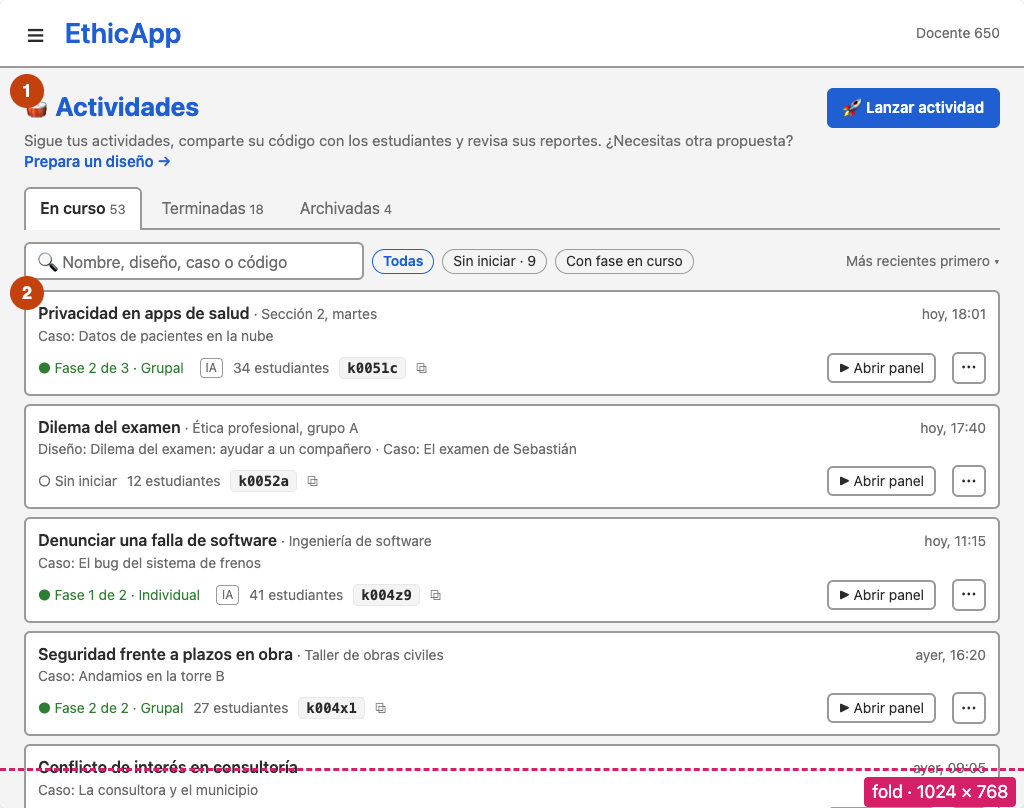
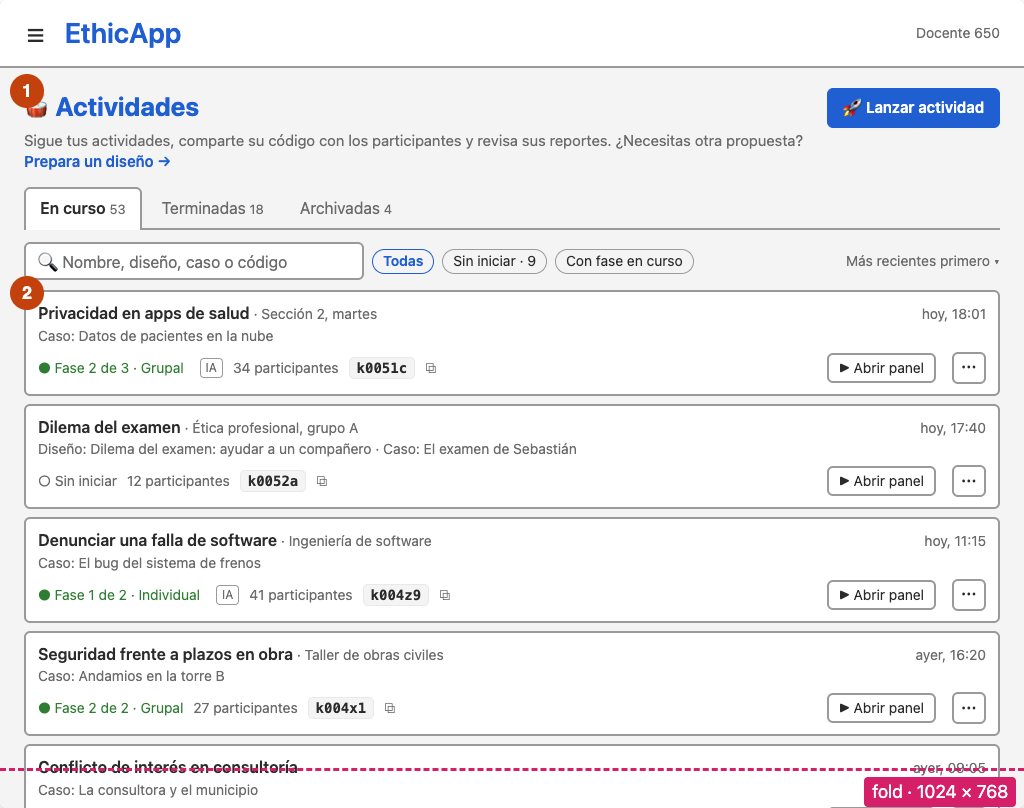
Call the people in an activity participants
EthicApp is used with students, with professionals in training and in
teacher training, so the activities list says "participantes" in its
labels, and the proposal says participants throughout. Records the
decision and notes that the dashboard's "estudiantes conectados" should
follow.

diff --git a/docs/design/activities-index/wireframes.html b/docs/design/activities-index/wireframes.html
@@ -161,11 +161,11 @@
   <div class="legend"><span>fold (bottom of the viewport)</span><span class="n">numbered notes, explained under each frame</span></div>
 
   <h2>Where Actividades sits</h2>
-  <p class="lede" style="margin-bottom:0">An activity is a design launched with a group of students. Lanzar actividad starts one; the activity dashboard (<code>docs/design/teacher-activity-dashboard</code>, implemented) runs it; this page finds it again, before, during and after.</p>
+  <p class="lede" style="margin-bottom:0">An activity is a design launched with a group of participants. Lanzar actividad starts one; the activity dashboard (<code>docs/design/teacher-activity-dashboard</code>, implemented) runs it; this page finds it again, before, during and after.</p>
   <table class="roles">
     <tr><th></th><th>Actividades (this proposal)</th><th>Activity dashboard</th></tr>
     <tr><td><b>Job</b></td><td>Find an activity, see where each one stands, hand out its code, get to its reports, archive the finished ones.</td><td>Run one activity: start phases, follow the responses, end it.</td></tr>
-    <tr><td><b>What a row says</b></td><td>Its status (Sin iniciar, the phase and its mode, or Finalizada); how many students joined; the access code while it runs; when it was launched or ended.</td><td>Everything about one activity.</td></tr>
+    <tr><td><b>What a row says</b></td><td>Its status (Sin iniciar, the phase and its mode, or Finalizada); how many participants joined; the access code while it runs; when it was launched or ended.</td><td>Everything about one activity.</td></tr>
     <tr><td><b>Primary action</b></td><td>"Lanzar actividad"; per row "Abrir panel" (en curso) or "Reportes" (terminadas); "Restaurar" (archivadas).</td><td>"Iniciar fase siguiente", "Terminar actividad", "Reportes".</td></tr>
     <tr><td><b>Bridge</b></td><td>The role line links to Lanzar actividad; "Lanzar de nuevo" opens the wizard with the same design.</td><td>The browser's back button returns to the list with its tab and filters, which live in the URL.</td></tr>
   </table>
@@ -175,7 +175,7 @@
       <li>An activity's end time is recorded (<code>sessions.finished_at</code>), and Terminadas shows it.</li>
       <li>Rows show the status and the participants; there is no response count.</li>
       <li>Only a finished activity can be archived, in the page and in the server.</li>
-      <li>Archiving changes nothing for students: a finished activity and an archived one look the same to them.</li>
+      <li>Archiving changes nothing for participants: a finished activity and an archived one look the same to them.</li>
     </ul>
   </div>
 
@@ -191,7 +191,7 @@
   <p class="metrics" data-metrics="A"></p>
   <div id="A"></div>
   <ol class="notes">
-    <li><b>The page says what it is for:</b> "Sigue tus actividades, comparte su código con los estudiantes y revisa sus reportes. ¿Necesitas otra propuesta? Prepara un diseño →". The link leads to Diseños, since "Lanzar actividad" is already the page action. "Volver a la página anterior" goes away.</li>
+    <li><b>The page says what it is for:</b> "Sigue tus actividades, comparte su código con los participantes y revisa sus reportes. ¿Necesitas otra propuesta? Prepara un diseño →". The link leads to Diseños, since "Lanzar actividad" is already the page action. "Volver a la página anterior" goes away.</li>
     <li><b>One page action:</b> "🚀 Lanzar actividad", top right, as "+ Nuevo diseño" and "+ Nuevo caso".</li>
     <li><b>Tabs with counts:</b> "En curso", "Terminadas", "Archivadas" (today "Actuales", "Terminadas", "Archivadas"). Tab and filters are part of the URL.</li>
     <li><b>Filters:</b> search over the activity's name and description, its design, its case and its code; chips "Todas", "Sin iniciar · 9" and "Con fase en curso". The order is stated.</li>
@@ -199,8 +199,8 @@
       <ul>
         <li><b>Actividad:</b> the name and, after "·", the description the teacher gave at launch (#973); under it the case, and the design only when the activity was renamed at launch. A click on the name opens the dashboard.</li>
         <li><b>Estado:</b> "○ Sin iniciar" while no phase has started, or "● Fase 2 de 3 · Grupal", the same words as the dashboard's bar. "IA" marks an activity with AI services on.</li>
-        <li><b>Estudiantes:</b> how many joined.</li>
-        <li><b>Código:</b> the access code, copied with one click, as students are told to type it.</li>
+        <li><b>Participantes:</b> how many joined.</li>
+        <li><b>Código:</b> the access code, copied with one click, as participants are told to type it.</li>
         <li><b>Lanzada:</b> in the teacher's time zone ("hoy, 18:01", "ayer", "12 oct."), instead of today's "02-11-2026 18:01 (UTC)".</li>
       </ul></li>
     <li><b>One visible action per row:</b> "Abrir panel", the dashboard.</li>
@@ -212,17 +212,17 @@
   <div id="B"></div>
   <ol class="notes">
     <li><b>"Reportes" is the visible action</b> of a finished activity: it opens the reports page directly, one click instead of two.</li>
-    <li><b>Columns for a finished activity:</b> its status, the students who took part, and when it ended (<code>sessions.finished_at</code>). An activity finished before the end time was recorded shows "—". The code column goes away.</li>
+    <li><b>Columns for a finished activity:</b> its status, the participants who took part, and when it ended (<code>sessions.finished_at</code>). An activity finished before the end time was recorded shows "—". The code column goes away.</li>
     <li><b>The row menu:</b> Abrir panel, Lanzar de nuevo (the wizard on this design, <code>#!/activities/new/:designId</code>), Ver diseño, Archivar.</li>
-    <li><b>After archiving,</b> a notice names the activity and offers "Deshacer". Today the card disappears without a word. Students see nothing different, so the notice does not mention them.</li>
+    <li><b>After archiving,</b> a notice names the activity and offers "Deshacer". Today the card disappears without a word. Participants see nothing different, so the notice does not mention them.</li>
   </ol>
 
   <h2>C. 1366 × 768: activities that have not started</h2>
   <p class="metrics" data-metrics="C"></p>
   <div id="C"></div>
   <ol class="notes">
-    <li><b>The "Sin iniciar" filter is on.</b> These activities were launched, but no phase has started: their students can join and wait. Today they mix with the running ones under "Actuales", with the same "En curso" look.</li>
-    <li><b>The code is the point of these rows:</b> the teacher shows it to the students before starting phase 1. The visible action stays "Abrir panel", where phase 1 starts.</li>
+    <li><b>The "Sin iniciar" filter is on.</b> These activities were launched, but no phase has started: their participants can join and wait. Today they mix with the running ones under "Actuales", with the same "En curso" look.</li>
+    <li><b>The code is the point of these rows:</b> the teacher shows it to the participants before starting phase 1. The visible action stays "Abrir panel", where phase 1 starts.</li>
     <li><b>The footer reminds what the tab holds</b> and how to archive: an activity can be archived once it is finished.</li>
   </ol>
 
@@ -231,7 +231,7 @@
   <div id="D"></div>
   <ol class="notes">
     <li>Below 1200 px the app's menu folds, the role line wraps under the title, and "Lanzar actividad" stays at the top right.</li>
-    <li>The table becomes compact rows: name and design, then status, students, code and the actions on a second line.</li>
+    <li>The table becomes compact rows: name and design, then status, participants, code and the actions on a second line.</li>
   </ol>
 
   <h2>E. 1366 × 768: a teacher with no activities yet</h2>
@@ -280,31 +280,31 @@
   const meta = (a) => [a.ds === a.n ? "" : `Diseño: ${a.ds}`, a.cs === "Sin caso" ? "Sin caso" : `Caso: ${a.cs}`].filter(Boolean).join(" · ");
   const status = (a) => (a.st === "wait" ? '<span class="st wait">○ Sin iniciar</span>'
     : `<span class="st ok">● Fase ${a.ph} de ${a.of} · ${a.mode}</span>`) + (a.ai ? '<span class="ai">IA</span>' : "");
-  const students = (a) => a.stu ? plural(a.stu, "estudiante", "estudiantes") : '<span class="sub">Nadie aún</span>';
+  const participants = (a) => a.stu ? plural(a.stu, "participante", "participantes") : '<span class="sub">Nadie aún</span>';
   const code = (a) => `<span class="code">${a.code}</span> <span class="sub">⧉</span>`;
 
   function runningTable(rows, { menuRow = -1 } = {}) {
-    const head = "<tr><th>Actividad</th><th>Estado</th><th>Estudiantes</th><th>Código</th><th>Lanzada</th><th></th></tr>";
+    const head = "<tr><th>Actividad</th><th>Estado</th><th>Participantes</th><th>Código</th><th>Lanzada</th><th></th></tr>";
     const body = rows.map((a, i) => `<tr${i === menuRow ? ' class="hl"' : ""}><td class="t"><div class="title">${title(a)}</div><div class="meta">${meta(a)}</div></td>`
-      + `<td>${status(a)}</td><td>${students(a)}</td><td>${code(a)}</td><td class="sub">${a.at}</td>`
+      + `<td>${status(a)}</td><td>${participants(a)}</td><td>${code(a)}</td><td class="sub">${a.at}</td>`
       + `<td class="acts"><span class="btn sm">▶ Abrir panel</span><span class="kebab"${i === menuRow ? ' data-menu="1"' : ""}>⋯</span></td></tr>`).join("");
     return `<table class="dt" data-role="activities"><thead>${head}</thead><tbody>${body}</tbody></table>`;
   }
 
   function finishedTable(rows) {
-    const head = "<tr><th>Actividad</th><th>Estado</th><th>Estudiantes</th><th>Terminada</th><th></th></tr>";
+    const head = "<tr><th>Actividad</th><th>Estado</th><th>Participantes</th><th>Terminada</th><th></th></tr>";
     const body = rows.map((a) => `<tr><td class="t"><div class="title">${title(a)}</div><div class="meta">${meta(a)}</div></td>`
-      + `<td><span class="st proc">■ Finalizada</span>${a.ai ? '<span class="ai">IA</span>' : ""}</td><td>${plural(a.stu, "estudiante", "estudiantes")}</td><td class="sub"${a.end === "—" ? ` title="Lanzada el ${a.at}"` : ""}>${a.end}</td>`
+      + `<td><span class="st proc">■ Finalizada</span>${a.ai ? '<span class="ai">IA</span>' : ""}</td><td>${plural(a.stu, "participante", "participantes")}</td><td class="sub"${a.end === "—" ? ` title="Lanzada el ${a.at}"` : ""}>${a.end}</td>`
       + '<td class="acts"><span class="btn sm">📊 Reportes</span><span class="kebab">⋯</span></td></tr>').join("");
     return `<table class="dt" data-role="activities"><thead>${head}</thead><tbody>${body}</tbody></table>`;
   }
 
   function runningList(rows) {
     return `<div class="cards" data-role="activities">${rows.map((a) => `<div class="box card"><div class="row1"><span style="min-width:0"><div class="lbl">${title(a)}</div><div class="sub">${meta(a)}</div></span><span class="sub">${a.at}</span></div>
-      <div class="row2">${status(a)}<span class="sub">${a.stu ? plural(a.stu, "estudiante", "estudiantes") : "Nadie aún"}</span>${code(a)}<span style="flex:1"></span><span class="btn sm">▶ Abrir panel</span><span class="kebab">⋯</span></div></div>`).join("")}</div>`;
+      <div class="row2">${status(a)}<span class="sub">${a.stu ? plural(a.stu, "participante", "participantes") : "Nadie aún"}</span>${code(a)}<span style="flex:1"></span><span class="btn sm">▶ Abrir panel</span><span class="kebab">⋯</span></div></div>`).join("")}</div>`;
   }
 
-  const pageHead = `<div class="head"><div class="titles"><h3>🥁 Actividades</h3><div class="role">Sigue tus actividades, comparte su código con los estudiantes y revisa sus reportes. ¿Necesitas otra propuesta? <a>Prepara un diseño →</a></div></div>
+  const pageHead = `<div class="head"><div class="titles"><h3>🥁 Actividades</h3><div class="role">Sigue tus actividades, comparte su código con los participantes y revisa sus reportes. ¿Necesitas otra propuesta? <a>Prepara un diseño →</a></div></div>
     <div class="acts"><span class="btn primary">🚀 Lanzar actividad</span></div></div>`;
 
   function listPage({ tab, one, rows, filter, menuRow, empty }) {
@@ -314,9 +314,9 @@
       <span class="tab${tab === "arc" ? " on" : ""}">Archivadas<span class="count">${counts.arc}</span></span></div>`;
     if (empty) {
       return pageHead + tabs + `<div class="box empty"><div class="lbl" style="font-size:19px">Todavía no has lanzado actividades</div>
-        <div class="sub">Una actividad es un diseño que lanzas con un grupo de estudiantes. Ellos se unen con un código.</div>
+        <div class="sub">Una actividad es un diseño que lanzas con un grupo de participantes. Ellos se unen con un código.</div>
         <div class="steps"><div class="box step"><div class="lbl">1. Prepara un diseño</div><div class="sub">Elige un caso y escribe las fases y preguntas.</div><div style="margin-top:8px"><span class="btn sm">+ Nuevo diseño</span></div></div>
-        <div class="box step"><div class="lbl">2. Lanza la actividad</div><div class="sub">Elige el diseño y entrega el código a tus estudiantes.</div><div style="margin-top:8px"><span class="btn sm primary">🚀 Lanzar actividad</span></div></div></div></div>`;
+        <div class="box step"><div class="lbl">2. Lanza la actividad</div><div class="sub">Elige el diseño y entrega el código a tus participantes.</div><div style="margin-top:8px"><span class="btn sm primary">🚀 Lanzar actividad</span></div></div></div></div>`;
     }
     const search = '<span class="search">🔍 Nombre, diseño, caso o código</span>';
     if (tab === "fin") {
@@ -326,7 +326,7 @@
     const chip = (k, label) => `<span class="chip${filter === k ? " on" : ""}" data-k="${k}">${label}</span>`;
     const tools = `<div class="tools">${search}${chip("all", "Todas")}${chip("wait", "Sin iniciar · 9")}${chip("run", "Con fase en curso")}<span class="sub sort">Más recientes primero ▾</span></div>`;
     const list = filter === "wait" ? RUNNING.filter((a) => a.st === "wait") : RUNNING.slice(0, rows);
-    const foot = `<div class="foot"><span>${filter === "wait" ? `Mostrando ${list.length} de 9 sin iniciar · <span style="color:var(--accent)">Mostrar más</span>` : `Mostrando ${list.length} de 53 · <span style="color:var(--accent)">Mostrar más</span>`}</span><span>${filter === "wait" ? "Sus estudiantes pueden unirse y esperar a que inicies la fase 1." : "Una actividad se puede archivar cuando termina."}</span></div>`;
+    const foot = `<div class="foot"><span>${filter === "wait" ? `Mostrando ${list.length} de 9 sin iniciar · <span style="color:var(--accent)">Mostrar más</span>` : `Mostrando ${list.length} de 53 · <span style="color:var(--accent)">Mostrar más</span>`}</span><span>${filter === "wait" ? "Sus participantes pueden unirse y esperar a que inicies la fase 1." : "Una actividad se puede archivar cuando termina."}</span></div>`;
     return pageHead + tabs + tools + (one ? runningList(list) : runningTable(list, { menuRow })) + foot;
   }
 

diff --git a/docs/design/activities-index/README.md b/docs/design/activities-index/README.md
@@ -35,7 +35,7 @@ The page was measured with headless Chrome. The numbers are the same at 1920, 13
 
 **What the page does not say.**
 - Where a running activity stands: which phase, of how many, and whether it is a team or an individual phase. The dashboard's bar says it ("Fase 2 de 3 · Grupal"); the list says "En curso".
-- How many students joined.
+- How many participants joined.
 - Which current activities have not started. "Actuales" mixes the 9 launched activities with no phase started (status `initiated`) with the 44 that have one in progress, and both read "En curso" in green.
 - Whether AI services are on (`sessions.ai_services_enabled`, V36).
 
@@ -59,7 +59,7 @@ The page was measured with headless Chrome. The numbers are the same at 1920, 13
 ### Page head (frame A)
 
 - **Title:** "Actividades", as today.
-- **A role line:** "Sigue tus actividades, comparte su código con los estudiantes y revisa sus reportes. ¿Necesitas otra propuesta? Prepara un diseño →". The link leads to Diseños, because "Lanzar actividad" is already the page action.
+- **A role line:** "Sigue tus actividades, comparte su código con los participantes y revisa sus reportes. ¿Necesitas otra propuesta? Prepara un diseño →". The link leads to Diseños, because "Lanzar actividad" is already the page action.
 - **Page action:** "🚀 Lanzar actividad" (primary), with the side menu's label.
 - "Volver a la página anterior" goes away.
 
@@ -81,7 +81,7 @@ The page was measured with headless Chrome. The numbers are the same at 1920, 13
   - "○ Sin iniciar" while no phase has started;
   - "● Fase n de m · Grupal" or "· Individual", with the dashboard bar's words and keys (`activity_bar_phase_label`, `activity_bar_phase_mode_*`);
   - an "IA" mark when the activity's AI services are on.
-- **Estudiantes:** how many students joined; "Nadie aún" when none has.
+- **Participantes:** how many participants joined; "Nadie aún" when none has.
 - **Código:** the access code, with a copy button.
 - **Lanzada:** in the browser's time zone, relative when recent ("hoy, 18:01", "ayer, 09:05") and as a short date after that ("12 oct."). The full date and time show on hover.
 - 12 rows fit on the first screen at 1920 × 1080, and 6 at 1366 × 768.
@@ -92,16 +92,16 @@ The page was measured with headless Chrome. The numbers are the same at 1920, 13
 - Ending an activity stays in the dashboard, behind its hold-to-confirm button. The list has no destructive action for a running activity.
 
 **Not started (frame C)**
-- The "Sin iniciar" filter lists the activities whose students can join and wait. Their code is what the teacher needs, and it is on the row.
-- The footer says what these activities are: "Sus estudiantes pueden unirse y esperar a que inicies la fase 1."
+- The "Sin iniciar" filter lists the activities whose participants can join and wait. Their code is what the teacher needs, and it is on the row.
+- The footer says what these activities are: "Sus participantes pueden unirse y esperar a que inicies la fase 1."
 
 ### Terminadas (frame B)
 
-- **Columns:** activity, status ("■ Finalizada", with the "IA" mark), students who took part, and when it ended. The code goes away.
+- **Columns:** activity, status ("■ Finalizada", with the "IA" mark), participants who took part, and when it ended. The code goes away.
 - **Terminada** is the date and time the teacher ended the activity (`sessions.finished_at`, see Decisions), relative when recent. Activities finished before the migration have no end time and show "—", with the launch date on hover.
 - **"📊 Reportes" is the visible action:** the reports page (`#!/activities/:id/reports`), one click instead of two.
 - **The "⋯" menu** holds Abrir panel, Lanzar de nuevo (the wizard on the same design, `#!/activities/new/:designId`), Ver diseño and Archivar.
-- **The footer** says what archiving does: it removes the activity from this list and keeps its reports. Students see a finished activity and an archived one the same way, so the notice says nothing about them.
+- **The footer** says what archiving does: it removes the activity from this list and keeps its reports. Participants see a finished activity and an archived one the same way, so the notice says nothing about them.
 
 ### Archivadas
 
@@ -127,7 +127,7 @@ Each notice disappears after a few seconds and can be dismissed. The page stays 
 ### Widths
 
 - **From 1200 px:** a table.
-- **Below 1200 px (frame D):** the app's menu folds and the table becomes compact rows: name, description and case, with the launch date on the right; then status, students, code and the actions on a second line.
+- **Below 1200 px (frame D):** the app's menu folds and the table becomes compact rows: name, description and case, with the launch date on the right; then status, participants, code and the actions on a second line.
 
 ### Where today's pieces go
 
@@ -159,7 +159,7 @@ Each notice disappears after a few seconds and can be dismissed. The page stays 
 **Data**
 - `GET /activities` (`backend/controllers/activities/activities-teacher.js:87`) returns the session's `status`, `time`, `code`, `archived` and the whole design document. The rows also need:
   - the current phase's number and mode (`sessions.current_stage`, joined to `stages`) and the number of phases;
-  - the number of students who joined (`sesusers` with role `A`, as the dashboard's bar counts them);
+  - the number of participants who joined (`sesusers` with role `A`, as the dashboard's bar counts them);
   - `ai_services_enabled`;
   - `finished_at`, for finished activities.
 - The design document is used for its title and case. Returning those fields alone would make the response much smaller for teachers with many activities.
@@ -175,13 +175,15 @@ Each notice disappears after a few seconds and can be dismissed. The page stays 
 
 **Translations**
 - New keys in `es_CL` and `en_US`. "Actuales" becomes "En curso"; "Desarchivar" becomes "Restaurar".
+- The page says "participantes" ("participants" in `en_US`), never "estudiantes" (see Decisions). The dashboard's bar says "estudiantes conectados" (`activity_bar_connected_description`) and should follow.
 
 ## Decisions
 
 - **2026-11-03: an activity's end time is recorded.** Most activities are synchronous and last under an hour, but the record of when an activity ended is worth keeping. Terminadas shows it.
 - **2026-11-03: the list shows each activity's status and its participants,** with no response count. The status is "Sin iniciar" (`initiated`), "Fase n de m · Grupal" or "· Individual" (`in_progress`) or "Finalizada" (`finished`).
 - **2026-11-03: only a finished activity can be archived.** The page and the server apply the same rule.
-- **2026-11-03: archiving changes nothing for students.** They see a finished activity and an archived one the same way.
+- **2026-11-03: archiving changes nothing for participants.** They see a finished activity and an archived one the same way.
+- **2026-11-03: the people in an activity are "participantes".** EthicApp is used with students, with professionals in training and in teacher training, so the page never calls them "estudiantes".
 
 ## Out of scope
 
